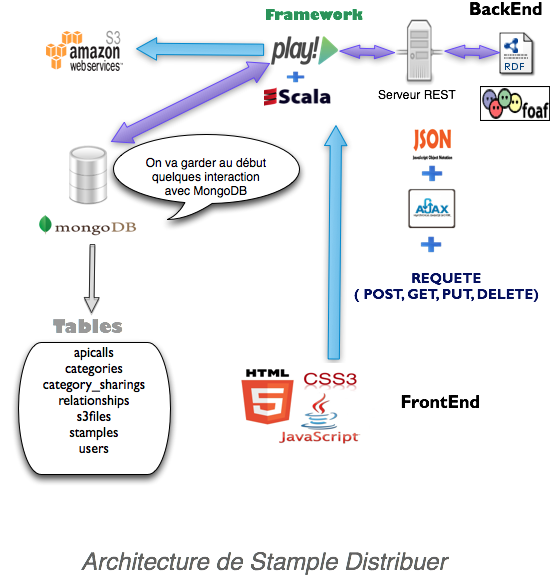
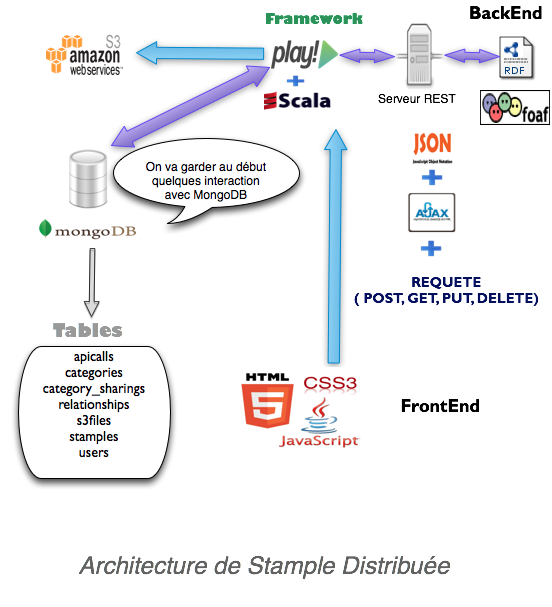
some modifications

diff --git a/Home.html b/Home.html
@@ -139,7 +139,15 @@
 
         </p>
 
-        <p></p>
+        <p>La plateforme Stample est développer en Scala, Json, HTML5 et CSS3, sur le Framework Play et avec MongoDB NoSQL database.</p>
+        <p>Durant ma premiére partie de Stage j'ai subit une formation en Scala commençant par le livre de Odersky Programming in Scala puis en faisant les exercices sur coursera ensuite en découvrant le Framework Play avec
+        des petites applications.</p>
+        <p>L'apprentissage de Scala ma pris une bonne durée vu que j'avais pas des bonnes connaissance des languages de programmation
+        fonctionnelle et la pensée imperative dont je me suis habituer.</p>
+        <p>La centralisation des données qui s'oppose au principe du web comme Tim Berners-Lee explique dans son artice
+        au w3c est un problème fatal. Le web c'est le mine d'information mais malheureusement ce mine est mal exploiter par des réseaux sociaux dont le plus fameux jusqu'à maintenant
+        FaceBook qui s'oppose au principe du web et qui provoque un danger qui s'empire dans le temps.
+        </p>
     </blockquote>
 </article>
 
@@ -1377,9 +1385,13 @@ On peux aussi faire de la recherche en donnant une fonction Javascript <br>
 
 </p>
 
-<h3>Pourquoi en Utilise Scala, PlayFramework, MongoDB ?</h3>
 
-<p>On à  choisie les meilleurs technologie pour mettre en oeuvre la version actuelle de stample simplement à cause de la
+<h3>Casbah Scala ToolKit MongoDB</h3>
+<p>On trouve sur le site de MongoDB une documentation sur Casbah <a href="http://api.mongodb.org/scala/casbah/2.0/">Documentation</a> </p>
+
+<h3>Pourquoi on Utilise Scala, PlayFramework, MongoDB ?</h3>
+
+<p>On a  choisie les meilleurs technologie pour mettre en oeuvre la version actuelle de stample simplement à cause de la
     scalabilité du langage, la performance de MangoDB et la légèreté du Play implique la
     force, souplesse et
     efficacité de Stample.
@@ -1930,7 +1942,7 @@ a foaf Person; <b>//la personne est un foaf:person qui contient les proprietes s
 </article>
 <article>
     <blockquote>
-        <H2><a name="FPStampleDist">Architecture de Stample Distribuer</a></H2>
+        <H2><a name="FPStampleDist">Architecture Distribuée de Stample </a></H2>
         <h3>L'importance de Scala pour le passage de Stample en RDF</h3>
 
         <p><b>Scardf</b> un API Scala fourni une connexion DSL(domain-specific language) pour écrire, traverser et l'integrer des graphes RDF.
@@ -1960,9 +1972,9 @@ a foaf Person; <b>//la personne est un foaf:person qui contient les proprietes s
             sémantique et d'écrire des tests. </p>
 
         <p>
-            Ce stage est une opportunité unique qui va me permettre de commancer ma deuxième année de master très
+            Ce stage est une opportunité unique qui va me permettre de commancer ma deuxième année de master
             alaise, vu
-            qu'il touche vraiment ma spècialité le web intelligence.</p>
+            qu'il touche vraiment du web intelligence.</p>
 
         <p>
             Le travaille avec les nouvelles technologie de l'informatique PlayFramework, scala, webID va renforcé mes
@@ -2022,7 +2034,7 @@ a foaf Person; <b>//la personne est un foaf:person qui contient les proprietes s
         <li><a href="#WebSem">Web Sémantique</a></li>
         <li><a href="#ArchiStamp">Architecture de STAMPLE</a></li>
         <li><a href="#FPStample">Les Fonctionnalitées de la platforme Stample</a></li>
-        <li><a href="#FPStampleDist">Architecture de Stample Distribuer</a></li>
+        <li><a href="#FPStampleDist">Architecture Distribuée de Stample </a></li>
         <li><a href="#ApportPerso">Apports Personnels</a></li>
         <li><a href="#Index">Index</a></li>
 
